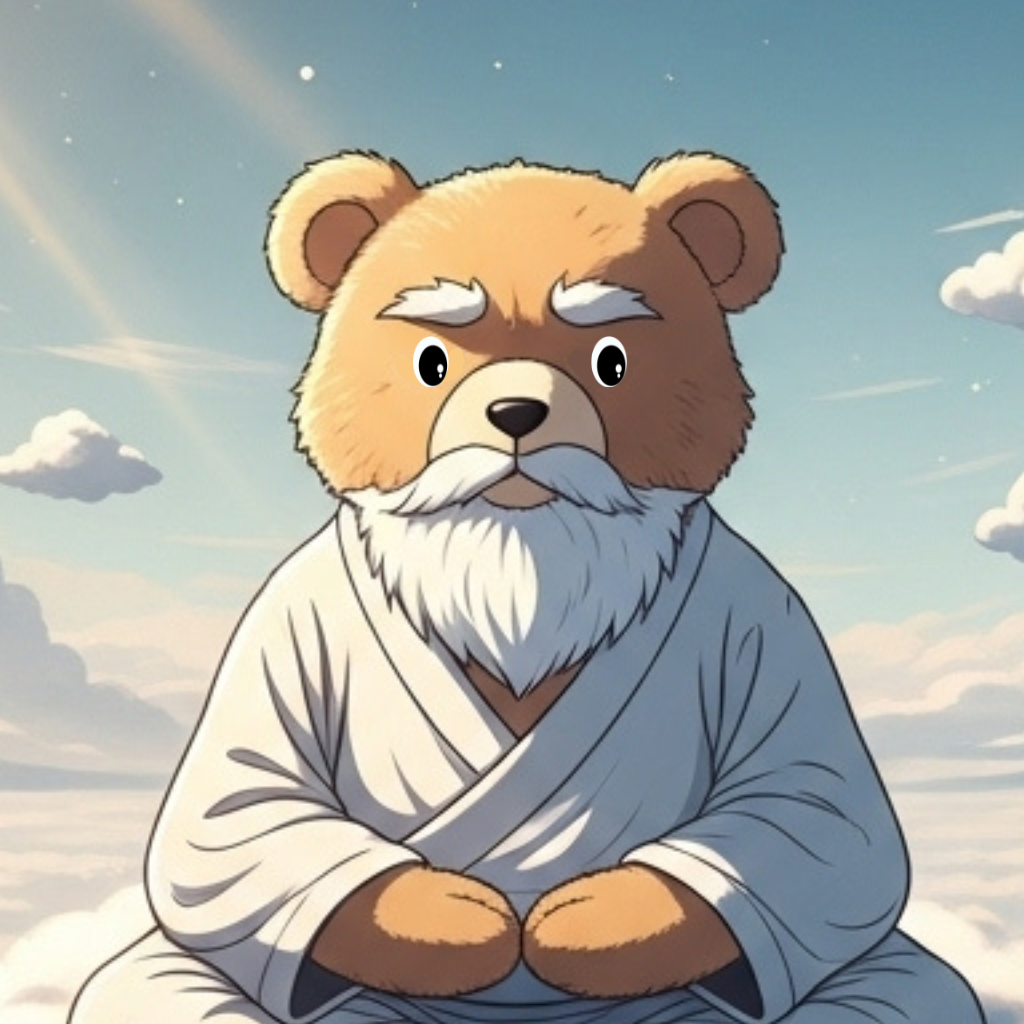
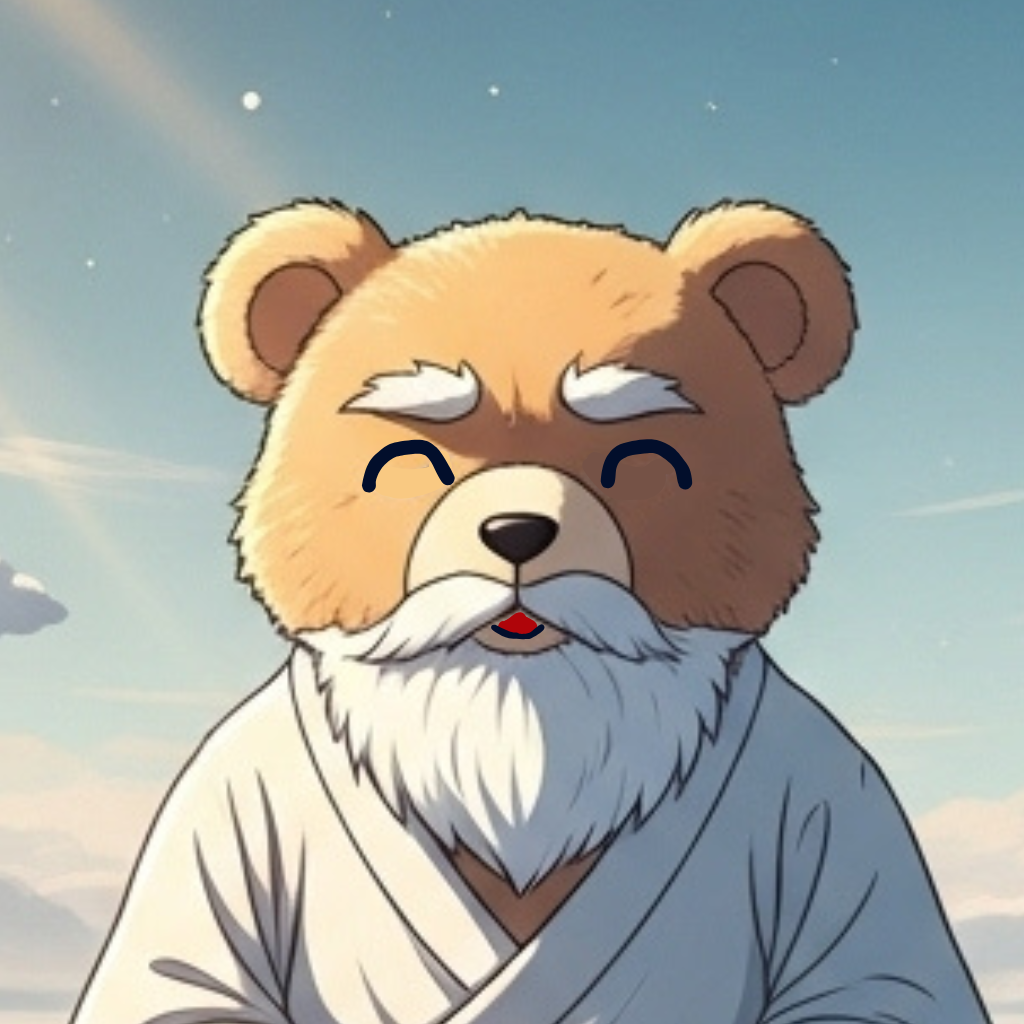
16 upd

diff --git a/escape16.html b/escape16.html
@@ -659,7 +659,6 @@
     <audio id="se-scene-change" src="sounds/common/Scene_Change08-1(Delay-Fast).mp3"></audio>
     <audio id="se-gacha" src="sounds/common/Retro_Anime-Switch02-3(Low).mp3"></audio>
     <audio id="se-eat" src="sounds/common/Motion-Eating02-1.mp3"></audio>
-    <audio id="se-bad-space" src="sounds/13/Single_Accent18-1(Mid).mp3"></audio>
     <audio id="se-pen" src="sounds/16/Felt_Tip_Pen02-1.mp3"></audio>
     <audio id="se-fire" src="sounds/common/fire.mp3"></audio>
     <audio id="se-paon" src="sounds/16/paon.wav"></audio>
@@ -673,6 +672,7 @@
     <audio id="se-angel" src="sounds/Angel01-1.mp3"></audio>
     <audio id="se-negative" src="sounds/16/Onoma-Negative13-1(Low).mp3"></audio>
     <audio id="se-gas" src="sounds/16/gas.mp3"></audio>
+    <audio id="se-tadaima" src="sounds/16/Anime_Motion34-2(Short-Low).mp3"></audio>
     <script>
         // --- Analytics helper ---
         window.ANA = {
@@ -791,6 +791,7 @@
                 desktopImg: 'images/16/desktop_img.png',
                 bearBigBad: 'images/16/bear_big_bad.png',
                 bearBigGood: 'images/16/bear_big_good.png',
+                bearBigGoodBear: 'images/16/bear_big_good_bear.png',
                 balloonUp: 'images/16/balloon_up.png',
                 beadBad: 'images/16/bear_bad.png',
 
@@ -2373,13 +2374,23 @@
                     break;
                 case 'examine_heaven_big_bear':
                     if (gameState.main.flags.whichIsBurn == 'leaf') {
-                        playSE('se-angel');
-                        showModal(
-                            'クマ大賢者',
-                            `<p>ふむ。地上に戻りたいのだな。姿の元に戻してしんぜよう</p>
+
+                        window._nextModal = {
+                            title: 'クマ大賢者',
+                            content: `<p>そうかそうか。地上に戻りたいのだな。<br>元のサイズに戻してしんぜよう</p>
                             <img src="${IMAGES.modals.bearBigGood}" style="width:300px;display:block;margin:0 auto 20px;">`,
+                            buttons: [{ text: '閉じる', action: 'close' }],
+                        };
+                        const onClosed = () => playSE('se-angel');
+                        window.addEventListener('modal:closed', onClosed, { once: true });
+                        showModal(
+                            'ただいまー！',
+                            `<img src="${IMAGES.modals.bearBigGoodBear}" style="width:300px;display:block;margin:0 auto 20px;">`,
                             [{ text: '閉じる', action: 'close' }]
                         );
+                        playSE('se-tadaima');
+
+
                         gameState.flags.trueEndUnlocked = true;
                         changeRoom('trueEnd');
                     } else {
